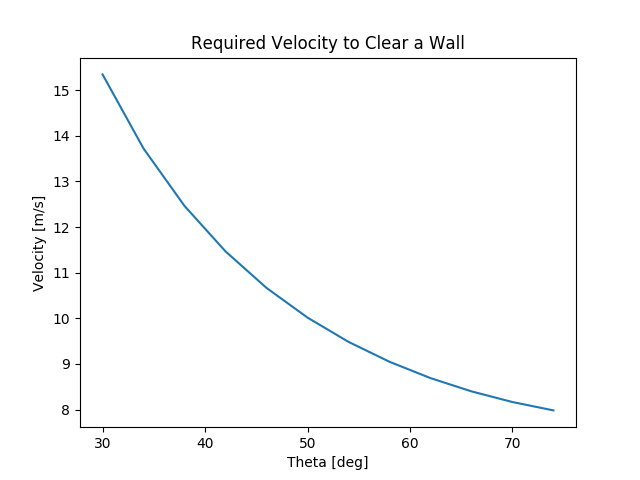
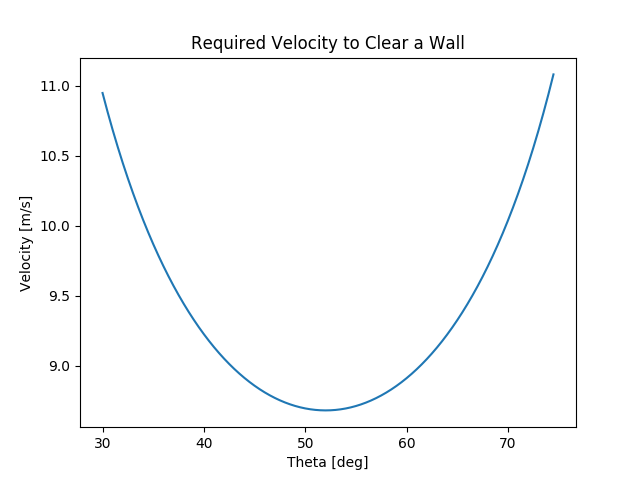
Changes to calculations

diff --git a/kiesling_dynamics_hw1.py b/kiesling_dynamics_hw1.py
@@ -25,7 +25,7 @@ def main():
     dx, dy = 6, 3 # Change in positions for x and for y (Meters)
     ay = -9.81 # gravity (m/s^2)
     
-    theta_array = np.arange(30, 75, 4) # Create a linearly spacing of theta values
+    theta_array = np.arange(30, 75, 0.5) # Create a linearly spacing of theta values
     
     '''
     Theta values are chosen from needing to be larger than atan(3/6)
@@ -35,9 +35,14 @@ def main():
     
     for i in range(len(theta_array)):
         try:
-            # using v^2 = v_o^2 + 2a*dy, we can assume v is zero at the 3m point making it a minimum for the
-            # parabolic motion
-            v_o = np.sqrt(2 * abs(ay) * dy) / np.sin(theta_array[i] * np.pi / 180)
+            # using: xf = v_o * cos(theta) * t
+            # v_0 = xf / (t * cos(theta))
+            # yf = v_o sin(theta) * t + 1/2 ay t^2
+            # yf = xf tan(theta) + 1/2 ay t^2
+            # t = sqrt((2 * xf * tan(theta) - yf) / ay)
+            # v_o = xf / (t * cos(theta))
+            t = np.sqrt((2 * dx * np.tan(theta_array[i] * np.pi / 180) - dy) / abs(ay)) # find the tof
+            v_o = dx / (np.cos(theta_array[i] * np.pi / 180) * t)
             print "Initial Velocity:\t{0}\tIncident Angel:\t{1}".format(v_o, theta_array[i])
             v_init.append(v_o)
         except:
